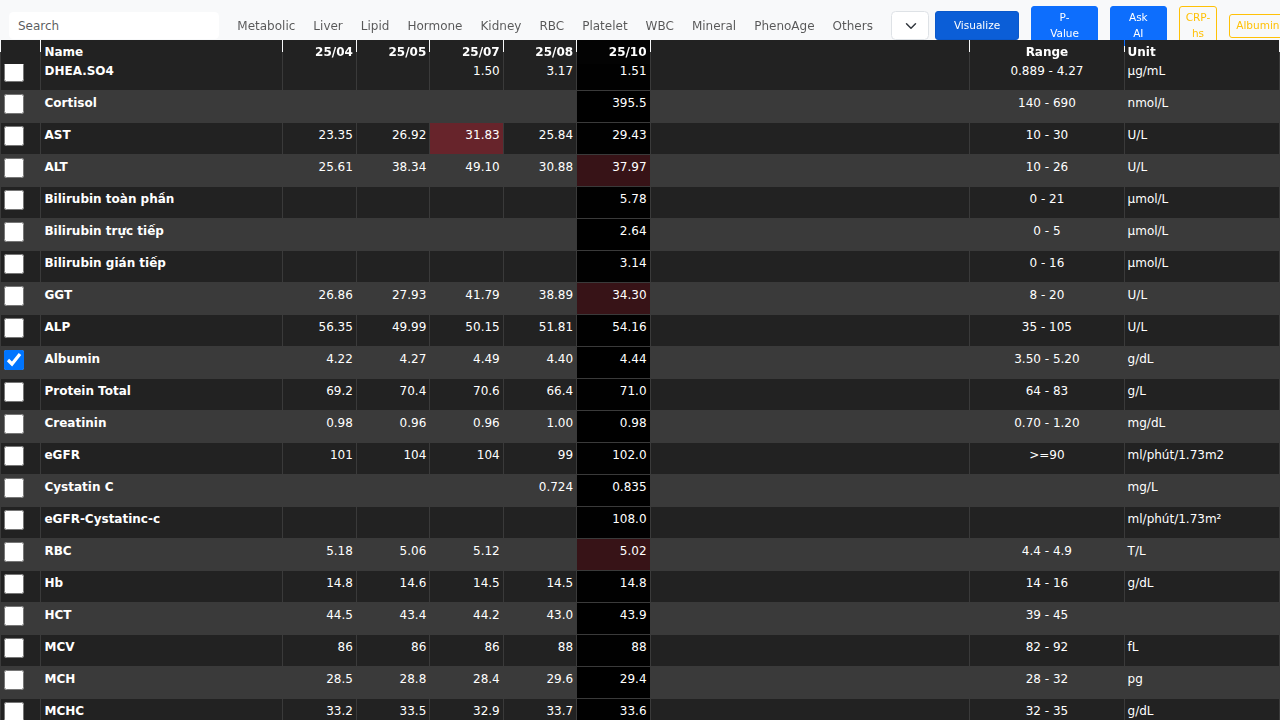
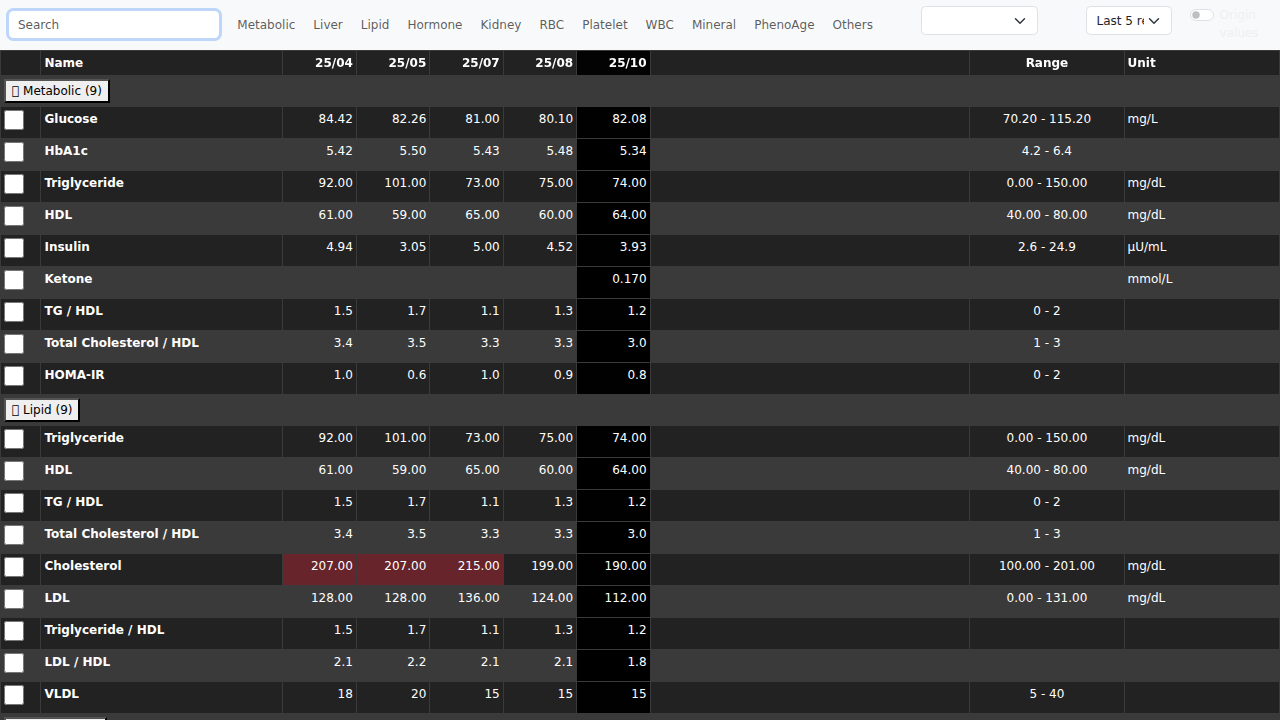
feat: Refine group display and sorting (#6)

diff --git a/src/layout/table.tsx b/src/layout/table.tsx
@@ -11,6 +11,10 @@ import {
   flexRender,
   ColumnDef,
   RowSelectionState,
+  getGroupedRowModel,
+  getExpandedRowModel,
+  GroupingState,
+  ExpandedState,
 } from "@tanstack/react-table";
 import { averageCountAtom } from "../atom/averageValueAtom";
 
@@ -26,6 +30,9 @@ type DisplayedEntry = {
   values: number[];
   unit: string;
   extra: BioMarker[3];
+  tag: string;
+  displayTag: string;
+  sortKey: string;
 };
 
 const columnHelper = createColumnHelper<DisplayedEntry>();
@@ -37,6 +44,10 @@ function getKeyFromTime(label: string) {
 const columns: ColumnDef<DisplayedEntry, any>[] = [
   columnHelper.accessor("selection" as any, {
     header: "",
+  }),
+  columnHelper.accessor("tag" as any, {
+    header: "Tag",
+    getGroupingValue: (row) => row.tag,
   }),
   columnHelper.accessor("name" as any, {
     header: "Name",
@@ -92,18 +103,31 @@ export default React.memo(
     const displayedEntries: DisplayedEntry[] = React.useMemo(() => {
       return convertedEntries
         .filter(([_, values]) => !showRecords || (values && values.length > 0 && values[values.length - 1] !== null && values[values.length - 1] !== undefined))
-        .map(([name, values, unit, extra]) => ({ name, values, unit, extra }));
+        .flatMap(([name, values, unit, extra]) => {
+          if (extra.tag && extra.tag.length > 0) {
+            return extra.tag.map(tag => {
+              const displayTag = tag.substring(tag.indexOf('-') + 1);
+              const sortKey = /^\d/.test(tag) ? `1_${tag}` : `2_${tag}`;
+              return { name, values, unit, extra, tag, displayTag, sortKey };
+            });
+          }
+          return [{ name, values, unit, extra, tag: 'Uncategorized', displayTag: 'Uncategorized', sortKey: '3_Uncategorized' }];
+        })
+        .sort((a, b) => a.sortKey.localeCompare(b.sortKey));
     }, [convertedEntries, showRecords]);
 
     const columnState = React.useMemo(() => {
-      let state: Record<string, boolean> = {};
+      let state: Record<string, boolean> = { tag: false };
 
       if (showRecords) {
-        state = Object.fromEntries(
-          labels
-            .filter((_, index) => index < labels.length - showRecords)
-            .map((label) => [label, false])
-        );
+        state = {
+          ...state,
+          ...Object.fromEntries(
+            labels
+              .filter((_, index) => index < labels.length - showRecords)
+              .map((label) => [label, false])
+          ),
+        };
       }
 
       if (!showOrigColumns) {
@@ -118,12 +142,20 @@ export default React.memo(
       [selected]
     );
 
+    const [grouping, setGrouping] = React.useState<GroupingState>(['tag']);
+    const [expanded, setExpanded] = React.useState<ExpandedState>(true);
+
     const table = useReactTable({
       data: displayedEntries,
       columns,
       getCoreRowModel: getCoreRowModel(),
       getFilteredRowModel: getFilteredRowModel(),
+      getGroupedRowModel: getGroupedRowModel(),
+      getExpandedRowModel: getExpandedRowModel(),
       enableRowSelection: true,
+      onGroupingChange: setGrouping,
+      onExpandedChange: setExpanded,
+      groupedColumnMode: false,
       onRowSelectionChange: (updater) => {
         const newState = typeof updater === 'function' ? updater(rowSelection) : updater;
         const selectedRow = Object.keys(newState)[0];
@@ -134,8 +166,10 @@ export default React.memo(
       state: {
         columnVisibility: columnState,
         rowSelection,
+        grouping,
+        expanded,
       },
-      getRowId: (originalRow) => originalRow.name,
+      getRowId: (originalRow) => originalRow.name + originalRow.tag,
     });
 
     // console.log(table.getRowModel());
@@ -175,12 +209,32 @@ export default React.memo(
           <tbody>
             {table
               .getRowModel()
-              .rows.map(
-                ({
-                  original: { name, values, unit, extra },
-                  getToggleSelectedHandler,
-                }) => (
-                  <tr key={name}>
+              .rows.map((row) => {
+                if (row.getIsGrouped()) {
+                  return (
+                    <tr key={row.id}>
+                      <td colSpan={columns.length}>
+                        <button
+                          {...{
+                            onClick: row.getToggleExpandedHandler(),
+                            style: {
+                              cursor: row.getCanExpand()
+                                ? "pointer"
+                                : "normal",
+                            },
+                          }}
+                        >
+                          {row.getIsExpanded() ? "👇" : "👉"}{" "}
+                          {row.original.displayTag} ({row.subRows.length})
+                        </button>
+                      </td>
+                    </tr>
+                  );
+                }
+
+                const { name, values, unit, extra } = row.original;
+                return (
+                  <tr key={row.id}>
                     <td>
                       <input
                         type="checkbox"
@@ -227,7 +281,7 @@ export default React.memo(
                     <td>
                       {averageCountValue
                         ? extra.getSamples(+averageCountValue)
-                        .join(', ')
+                        .join(", ")
                         : null}
                     </td>
                     {showOrigColumns &&
@@ -243,8 +297,8 @@ export default React.memo(
                       <td className="col-ref">{extra.originUnit}</td>
                     )}
                   </tr>
-                )
-              )}
+                );
+              })}
           </tbody>
           <tfoot>
             {table.getFooterGroups().map((headerGroup) => (

diff --git a/jules-scratch/verification/verify_grouping.py b/jules-scratch/verification/verify_grouping.py
@@ -1,0 +1,18 @@
+
+from playwright.sync_api import sync_playwright
+
+def run(playwright):
+    browser = playwright.chromium.launch(headless=True)
+    context = browser.new_context()
+    page = context.new_page()
+
+    # Capture console logs
+    page.on("console", lambda msg: print(f"CONSOLE: {msg.text}"))
+
+    page.goto("http://localhost:5173/")
+    page.wait_for_selector("tbody tr", timeout=60000)
+    page.screenshot(path="jules-scratch/verification/verification.png")
+    browser.close()
+
+with sync_playwright() as playwright:
+    run(playwright)
